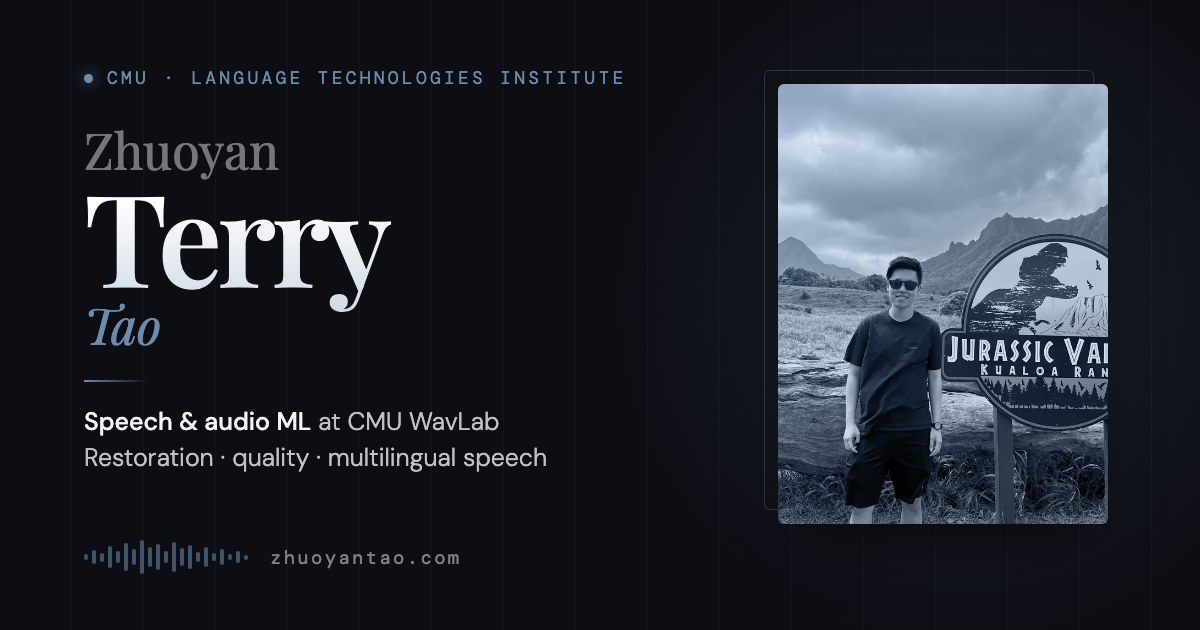
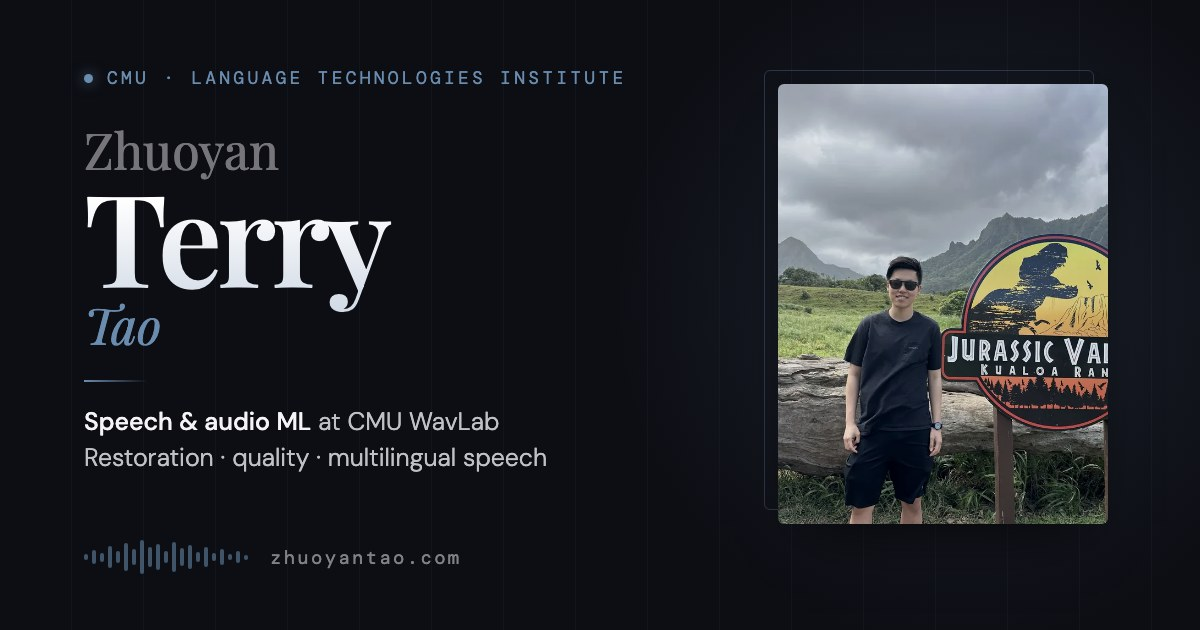
Restore full-color portrait
Drop the duotone treatment on the hero photo and share card; keep the
gentle brightness/saturation tone-down from the original site.

Claude-Session: https://claude.ai/code/session_01Qp2Wxnf7vRckeBfe44mJcm

Changed region(s): [[0.6475, 0.3619, 0.925, 0.8444]]

diff --git a/index.html b/index.html
@@ -454,7 +454,7 @@
     }
     .hero-links a:hover { color: var(--ink); border-bottom-color: var(--blue-mid); }
 
-    /* Portrait: duotone that blooms into color on hover */
+    /* Portrait (full color, gently toned for the dark palette) */
     .hero-photo-col { position: relative; }
     .hero-photo-wrap {
       position: relative; width: 300px;
@@ -468,16 +468,10 @@
     .hero-photo-frame img {
       display: block; width: 100%; height: auto; aspect-ratio: 3/4;
       object-fit: cover; object-position: center top;
-      filter: grayscale(1) contrast(1.06) brightness(0.9);
-      transition: filter 0.9s var(--ease);
+      filter: brightness(0.9) contrast(1.05) saturate(0.88);
+      transition: filter 0.6s var(--ease);
     }
-    .hero-photo-frame::after {
-      content: ''; position: absolute; inset: 0; pointer-events: none;
-      background: linear-gradient(160deg, rgba(120,160,205,0.55), rgba(70,100,140,0.35));
-      mix-blend-mode: color; transition: opacity 0.9s var(--ease);
-    }
-    .hero-photo-wrap:hover .hero-photo-frame img { filter: grayscale(0) contrast(1.02) brightness(0.94) saturate(0.9); }
-    .hero-photo-wrap:hover .hero-photo-frame::after { opacity: 0; }
+    .hero-photo-wrap:hover .hero-photo-frame img { filter: brightness(0.96) contrast(1.04) saturate(0.95); }
     .hero-photo-caption {
       position: absolute; left: 0; right: 0; bottom: 0; z-index: 2;
       background: linear-gradient(to top, rgba(13,14,20,0.88) 0%, transparent 100%);
@@ -959,11 +953,6 @@
       .name-terry { font-size: clamp(3.1rem, 18vw, 4.5rem); }
       .hero-bio { font-size: 0.9rem; }
       h2 { font-size: 1.6rem; }
-    }
-
-    @media (hover: none) {
-      .hero-photo-frame img { filter: grayscale(0.55) contrast(1.04) brightness(0.92); }
-      .hero-photo-frame::after { opacity: 0.55; }
     }
 
     @media (prefers-reduced-motion: reduce) {
